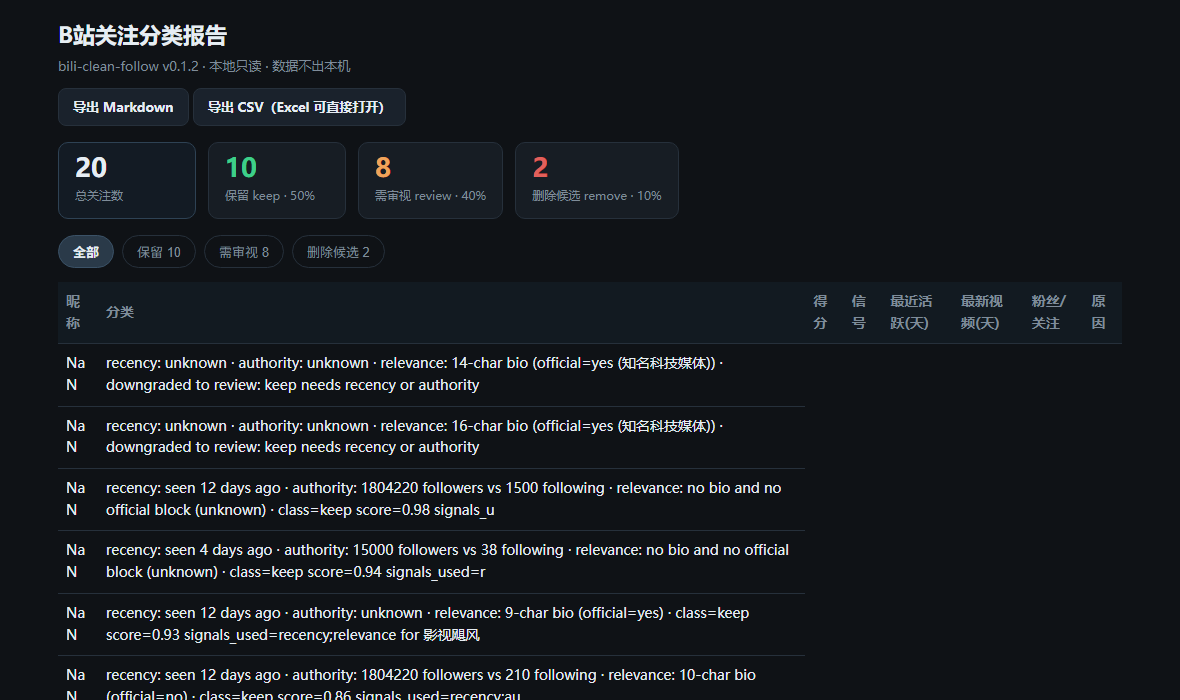
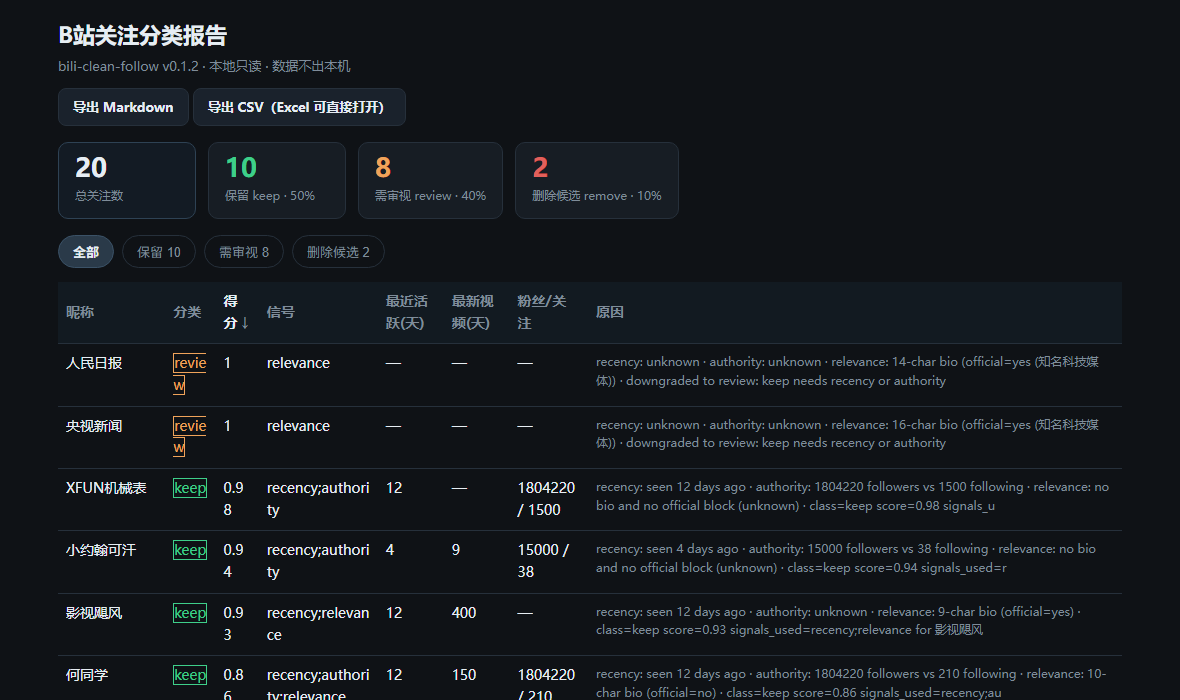
fix(promo): Web 镜头换成可读界面并重加截图门禁（FOR-34 / FOR-57）
两支片子（BiliCleanPromo 的 WebScene、Walkthrough 的 STEP 5）里那张 public/webui.png
是 v0.1.2（tag = 4a229ce，main = 10ca868）的 Web 报告实拍，而 v0.1.2 的界面在真实浏览器里
是坏的：Chrome --dump-dom 读到 <td>NaN</td>，徽章 span 缺属性闭合引号导致后面所有列塌成转义
文本。同一张图在片子里放出去，等于替产品演示一个坏掉的界面。

- tools/shot_webui.py：截图前先抓真实浏览器渲染后的 DOM 做断言（tbody 行数 = 数据行数、
  不得出现字面量 NaN、不得出现被转义的标签、徽章数量 = 行数、每个分类行数 = Summary 计数）。
  断言不过就不出图，退出码 3。在 main=10ca868 上跑它是红的（exit 3，两条问题）。
- public/webui.png：改为从含 FOR-57 + FOR-58 修复的 54e1b8a 重截，DOM 断言通过
  （20 行 / 20 个徽章 / 无 NaN / 无转义标签）。旧图 SHA256=CDA63E42…，新图 67E526AB…。
- README：写清 Web 镜头的发布前置 —— FOR-57 → FOR-58 合入并切 v0.1.3 之前，
  两支片子的 Web 镜头不适用于已发布的 v0.1.2。

diff --git a/promo/tools/shot_webui.py b/promo/tools/shot_webui.py
@@ -1,14 +1,11 @@
 #!/usr/bin/env python3
 """用当前版本的真实 Web 报告界面重截 promo/public/webui.png。
 
-片子里那张「本地报告」截图必须是当前版本渲染出来的，否则视频讲的就是过时界面。
-纯本地：起 bili.web（只监听 127.0.0.1），用本机 Chrome / Edge headless 截图，截完停服务。
-
-用法：
-    python tools/shot_webui.py [输入JSON] [--browser 路径] [--port 8795]
-
-不传输入时用 tests/fixture-bili-real-list.json 经 bili-merge 补信号后的结果，
-这样界面上 keep / review / remove 三类都有内容，镜头里不至于空一半。
+片子里那张「本地报告」截图必须是当前版本渲染出来的，而且必须是**真的能看**的。
+v0.1.2（tag = 4a229ce）的 web.py 在真实浏览器里把昵称 / 信号 / 粉丝比三列渲染成字面量
+NaN，分类徽章的 span 又缺一个属性闭合引号，整行塌成转义文本（FOR-56 取证、FOR-57 修）。
+那种页面照样能截出一张图，但放进片子里就是替产品演示一个坏掉的界面。
+所以这里先抓一次真实浏览器渲染后的 DOM 做断言：不合格就不出图，退出码 3。
 """
 from __future__ import annotations
 
@@ -24,6 +21,9 @@ import time
 from pathlib import Path
 
 ROOT = Path(__file__).resolve().parents[1]          # promo/
+REPO_ROOT = ROOT.parent
+sys.path.insert(0, str(REPO_ROOT / "src"))            # ??????????
+from bili import web as bili_web                     # noqa: E402
 REPO = ROOT.parent                                   # 仓库根
 PUBLIC = ROOT / "public"
 OUT = PUBLIC / "webui.png"
@@ -90,6 +90,58 @@ def build_demo_input(tmp: Path) -> Path:
     return merged
 
 
+def fetch_dom(browser: str, port: int) -> str:
+    """抓真实浏览器渲染后的 DOM（不是响应体）：前端 JS 跑过才算数。"""
+    res = subprocess.run([browser, "--headless=new", "--disable-gpu", "--dump-dom",
+                          "--virtual-time-budget=4000", f"http://127.0.0.1:{port}/"],
+                         capture_output=True)
+    if res.returncode != 0:
+        sys.exit(f"浏览器 --dump-dom 失败 exit={res.returncode}: "
+                 f"{res.stderr.decode('utf-8', 'replace')[:300]}")
+    return res.stdout.decode("utf-8", "replace")
+
+
+def tbody_of(dom: str) -> str:
+    start, end = dom.find("<tbody"), dom.find("</tbody>")
+    if start < 0 or end < 0:
+        return ""
+    return dom[start:end]
+
+
+def check_dom(dom: str, results: list) -> list:
+    """对渲染层下断言。返回问题清单，空清单 = 这张图有资格进片子。
+
+    失效模式来自 FOR-56 取证 / FOR-57 修复：昵称列被 fmtNum 覆盖成字面量 NaN，
+    分类徽章的 span 缺属性闭合引号，导致后面所有列塌成转义文本。
+    两种坏法都还能截出一张「像样」的图，所以只能靠 DOM 断言拦，肉眼抽查拦不住。
+    """
+    body = tbody_of(dom)
+    if not body:
+        return ["页面没有渲染出 <tbody>：前端 JS 没跑起来，截图会是空表"]
+
+    problems = []
+    rows = body.count("<tr")
+    if rows != len(results):
+        problems.append(f"表格渲染 {rows} 行 != 数据 {len(results)} 行（行被吞或塌成文本）")
+    if "NaN" in body:
+        problems.append("tbody 出现字面量 NaN：某一列把原值覆盖成了转换值")
+    for frag in ("&lt;td", "&lt;/td", "&lt;span", "&gt;"):
+        if frag in body:
+            problems.append(f"tbody 出现被转义的标签 {frag}：属性缺闭合引号，后面的列被吞进 class")
+            break
+
+    badges = sum(body.count(f'class="b-{cls}') for cls in ("keep", "review", "remove"))
+    if badges != rows:
+        problems.append(f"分类徽章 {badges} 个 != {rows} 行：徽章 span 未闭合，颜色与文案都不会生效")
+
+    counts = bili_web.summarize(results)["counts"]
+    for cls in ("keep", "review", "remove"):
+        shown = body.count(f'class="{cls}"')
+        if shown != counts[cls]:
+            problems.append(f"{cls} 行 {shown} != Summary {counts[cls]}：分类行渲染不完整")
+    return problems
+
+
 def wait_until_up(port: int, timeout: float = 12.0) -> bool:
     deadline = time.time() + timeout
     while time.time() < deadline:
@@ -123,6 +175,20 @@ def main() -> int:
     try:
         if not wait_until_up(port):
             sys.exit("bili.web 没起来，检查 --input 是否是可加载的导出")
+        dom = fetch_dom(browser, port)
+        try:
+            results = bili_web.load_report(str(payload))
+        except Exception as exc:                       # noqa: BLE001
+            sys.exit(f"?????????????: {exc}")
+        problems = check_dom(dom, results)
+        if problems:
+            print(f"[FAIL] ?? src/bili ? Web ?????????????????")
+            for item in problems:
+                print("  - " + item)
+            print("??????? FOR-57????????"
+                  "?????? Web ???????????????")
+            raise SystemExit(3)
+        print(f"[OK] DOM ???????{len(results)} ?????? NaN??? span ???")
         subprocess.run([browser, "--headless=new", "--disable-gpu", "--hide-scrollbars",
                         "--force-device-scale-factor=1", f"--window-size={args.size}",
                         "--virtual-time-budget=4000", f"--screenshot={OUT}",
@@ -140,3 +206,4 @@ def main() -> int:
 
 if __name__ == "__main__":
     raise SystemExit(main())
+

diff --git a/promo/README.md b/promo/README.md
@@ -74,3 +74,31 @@ python qa.py out/v3/*.png      # 帧质检：空白帧 / 内容触边（需 pill
 - 界面截图：`tools/shot_webui.py` 从当前 `src/bili` 起服务 + 本机 Chrome headless 截图，版本一换就能重截，不会再出现「片子讲 v0.1.1 界面」。
 - 待补：品牌 logo 动效（当前色板取自 B站主色 `00A1D6` + 深色 `0B0D12`）；Web 报告从静态截图换成录屏滚动会更有说服力。
 - 成片挂载：发版时把两支 mp4 传到 Release 附件（crf 20 下约 7–9 MB，在 GitHub 10 MB 附件上限内）。
+
+## Web 镜头的门禁（先看这条，再决定片子能不能发）
+
+`public/webui.png` 是唯一一张「本地 Web 报告」实拍，出现在产品介绍片的 WebScene 和使用教程片的 STEP 5。
+它必须来自**当前真的能看的界面**，否则片子就是在替产品演示一个坏掉的界面。
+
+实测（2026-10-25，Windows / Chrome headless，`--dump-dom` 读渲染后的 DOM，不是响应体）：
+
+| 构建 | tbody 里的真实输出 | 结论 |
+|---|---|---|
+| `main = 10ca868`（= tag v0.1.2） | `<td>NaN</td>`，`<span class="b-review&gt;review&lt;/span&gt;&lt;/td&gt;...` | 昵称 / 信号 / 粉丝比三列全是字面量 `NaN`，徽章 span 缺属性闭合引号 → 后面所有列塌成转义文本。不可入镜 |
+| `54e1b8a`（FOR-57 + FOR-58 堆叠分支） | `<td>人民日报</td><td><span class="b-review">review</span></td>...` | 20 行、20 个徽章、无 `NaN`、无转义标签。可入镜 |
+
+所以 `tools/shot_webui.py` 现在在截图前先跑一次真实浏览器 DOM 断言（行数 = 数据行数、tbody 不得出现
+`NaN` 或被转义的标签、徽章数量 = 行数、每个分类的行数 = Summary 计数）。断言不过就不出图、退出码 3。
+在 `main = 10ca868` 上跑它是红的（退出码 3，两条问题），这正是 v0.1.2 界面真实的渲染状态。
+
+**发布前置**：本分支的 `webui.png` 来自 `54e1b8a`（含 FOR-57 的渲染层 P0 修复与 FOR-58 的数值列排序）。
+FOR-57 → FOR-58 合入 main 并切 v0.1.3 之前，两支片子的 Web 镜头与 STEP 5 都不适用于已发布的 v0.1.2，
+发帖物料只能先用不含 Web 镜头的版本。
+
+### 重截与重渲（改完 web.py 必须重跑）
+
+```
+python promo/tools/shot_webui.py            # DOM 断言通过才写 public/webui.png
+cd promo && npm run render && npm run render:walk
+python promo/qa.py promo/out/promo/*.png    # 帧级：空白帧 / 触边
+```
